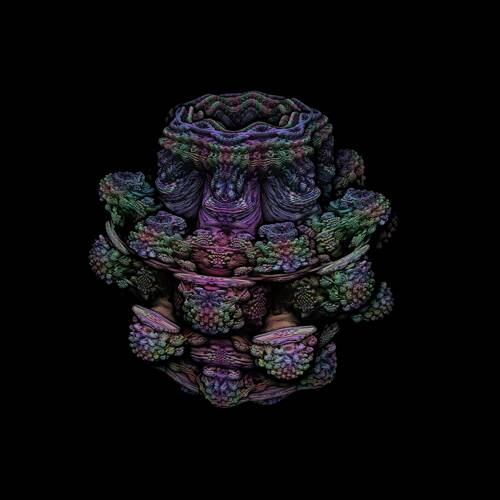
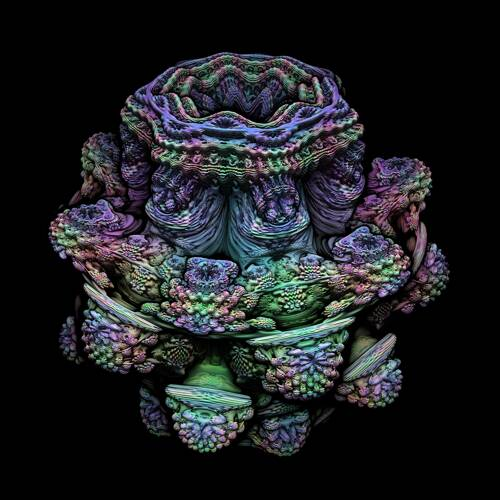
Tweaked the Mandelbulb applet cover and fixed a couple bugs

diff --git a/applets/the-mandelbulb/scripts/the-mandelbulb.min.js b/applets/the-mandelbulb/scripts/the-mandelbulb.min.js
@@ -1,1 +1,1 @@
-!function(){"use strict";let t=document.querySelector("#output-canvas").getContext("webgl"),e=document.querySelector("#output-canvas").offsetWidth,n=!1,o=!1,i=!1,a=0,r=0,c=!1,u=!1,s=!1,l=!1,m=!1,f=!1,_=0,d=1,p=3.3233,h=2.1272,g=500,v=32,w=[],y=[],b=[],S=[],M=[3.0191,.5918,1.9128],q=8,A=[0,0,0],L=0,z=0,P=0,E=0,I=0,x=2,k=[0,0,5],T=0;Y(),document.querySelector("#output-canvas").setAttribute("width",g),document.querySelector("#output-canvas").setAttribute("height",g),document.querySelector("#dim-input").addEventListener("input",function(){(g=parseInt(document.querySelector("#dim-input").value||500))<200&&(g=200);g>2e3&&(g=2e3);t.uniform1i(C.small_image_size_uniform,g),document.querySelector("#output-canvas").setAttribute("width",g),document.querySelector("#output-canvas").setAttribute("height",g),t.viewport(0,0,g,g),window.requestAnimationFrame(D)}),document.querySelector("#generate-high-res-image-button").addEventListener("click",function(){let e=g;g=parseInt(document.querySelector("#high-res-dim-input").value||2e3),document.querySelector("#output-canvas").setAttribute("width",g),document.querySelector("#output-canvas").setAttribute("height",g),t.viewport(0,0,g,g),D();let n=document.createElement("a");n.download=0===L?"the-mandelbulb.png":"a-juliabulb.png";n.href=document.querySelector("#output-canvas").toDataURL(),n.click(),n.remove(),g=e,document.querySelector("#output-canvas").setAttribute("width",g),document.querySelector("#output-canvas").setAttribute("height",g),t.viewport(0,0,g,g),D()}),document.querySelector("#power-input").addEventListener("input",function(){if(o)return;z=q,P=(parseFloat(document.querySelector("#power-input").value)||8)-z,z+P<1&&(P=0);E=L,I=0,B()}),document.querySelector("#switch-bulb-button").addEventListener("click",function(){if(o)return;document.querySelector("#switch-bulb-button").style.opacity=0,setTimeout(function(){document.querySelector("#switch-bulb-button").textContent=0===E?"Switch to Mandelbulb":"Switch to Juliabulb",document.querySelector("#switch-bulb-button").style.opacity=1},300),0===L&&(A=[...M]);I=1-2*(E=L),z=q,P=0,B()}),window.addEventListener("resize",X),setTimeout(X,500),document.querySelector("#output-canvas").addEventListener("mousedown",function(t){i=!0,a=t.clientX,r=t.clientY,n||o||(n=!0,window.requestAnimationFrame(D))}),document.querySelector("#output-canvas").addEventListener("mousemove",function(t){if(i){t.preventDefault();let n=t.clientX,o=t.clientY,i=n-a,c=o-r;(p+=i/e*Math.PI)>=2*Math.PI?p-=2*Math.PI:p<0&&(p+=2*Math.PI),(h-=c/e*Math.PI)>Math.PI-.01?h=Math.PI-.01:h<.01&&(h=.01),a=n,r=o,Y()}}),document.documentElement.addEventListener("mouseup",function(t){n=(i=!1)||c||u||s||l||m||f}),document.querySelector("#output-canvas").addEventListener("touchstart",function(t){i=!0,a=t.touches[0].clientX,r=t.touches[0].clientY,2===t.touches.length?(m=!0,f=!1):3===t.touches.length&&(f=!0,m=!1),n||o||(n=!0,window.requestAnimationFrame(D))}),document.querySelector("#output-canvas").addEventListener("touchmove",function(t){t.preventDefault();let n=t.touches[0].clientX,o=t.touches[0].clientY,i=n-a,c=o-r;Math.abs(i)>20||Math.abs(c)>20||((p+=i/e*Math.PI)>=2*Math.PI?p-=2*Math.PI:p<0&&(p+=2*Math.PI),(h-=c/e*Math.PI)>Math.PI-.01?h=Math.PI-.01:h<.01&&(h=.01),a=n,r=o,Y())}),document.querySelector("#output-canvas").addEventListener("touchend",function(t){2===t.touches.length?(m=!0,f=!1):3===t.touches.length?(f=!0,m=!1):(m=!1,f=!1,0===t.touches.length&&(i=!1)),n=i||c||u||s||l||m||f}),document.documentElement.addEventListener("keydown",function(t){87===t.keyCode?c=!0:83===t.keyCode&&(u=!0),68===t.keyCode?s=!0:65===t.keyCode&&(l=!0),n||o||(n=!0,window.requestAnimationFrame(D))}),document.documentElement.addEventListener("keyup",function(t){87===t.keyCode?c=!1:83===t.keyCode&&(u=!1),68===t.keyCode?s=!1:65===t.keyCode&&(l=!1),n=i||c||u||s||l||m||f});const F="\n\t\tattribute vec3 position;\n\t\tvarying vec2 uv;\n\n\t\tvoid main(void)\n\t\t{\n\t\t\tgl_Position = vec4(position, 1.0);\n\n\t\t\t//Interpolate quad coordinates in the fragment shader.\n\t\t\tuv = position.xy;\n\t\t}\n\t",U="\n\t\tprecision highp float;\n\t\t\n\t\tvarying vec2 uv;\n\t\t\n\t\tuniform vec3 camera_pos;\n\t\tuniform vec3 image_plane_center_pos;\n\t\tuniform vec3 forward_vec;\n\t\tuniform vec3 right_vec;\n\t\tuniform vec3 up_vec;\n\t\t\n\t\tuniform float focal_length;\n\t\t\n\t\tuniform vec3 light_pos;\n\t\tconst float light_brightness = 2.0;\n\t\t\n\t\tuniform int image_size;\n\t\tuniform int small_image_size;\n\t\t\n\t\t\n\t\t\n\t\tconst float clip_distance = 1000.0;\n\t\tconst int max_marches = 64;\n\t\tconst vec3 fog_color = vec3(0.0, 0.0, 0.0);\n\t\tconst float fog_scaling = .2;\n\t\tconst int num_iterations = 32;\n\t\t\n\t\tuniform float power;\n\t\tuniform vec3 c;\n\t\tuniform float julia_proportion;\n\t\t\n\t\tvec3 color;\n\t\t\n\t\t\n\t\t\n\t\tfloat distance_estimator(vec3 pos)\n\t\t{\n\t\t\tvec3 z = pos;\n\t\t\t\n\t\t\tfloat r = 0.0;\n\t\t\tfloat dr = 1.0;\n\t\t\t\n\t\t\tcolor = vec3(1.0, 1.0, 1.0);\n\t\t\tfloat color_scale = .5;\n\t\t\t\n\t\t\tfor (int iteration = 0; iteration < num_iterations; iteration++)\n\t\t\t{\n\t\t\t\tr = length(z);\n\t\t\t\t\n\t\t\t\tif (r > 16.0)\n\t\t\t\t{\n\t\t\t\t\tbreak;\n\t\t\t\t}\n\t\t\t\t\n\t\t\t\tfloat theta = acos(z.z / r);\n\t\t\t\t\n\t\t\t\tfloat phi = atan(z.y, z.x);\n\t\t\t\t\n\t\t\t\tdr = pow(r, power - 1.0) * power * dr + 1.0;\n\t\t\t\t\n\t\t\t\ttheta = theta * power;\n\t\t\t\t\n\t\t\t\tphi = phi * power;\n\t\t\t\t\n\t\t\t\tz = pow(r, power) * vec3(sin(theta)*cos(phi), sin(phi)*sin(theta), cos(theta));\n\t\t\t\t\n\t\t\t\tz += (1.0 - julia_proportion) * pos + julia_proportion * c;\n\t\t\t\t\n\t\t\t\tcolor = (1.0 - color_scale) * color + color_scale * abs(normalize(z));\n\t\t\t\t\n\t\t\t\tcolor_scale *= .5;\n\t\t\t}\n\t\t\t\n\t\t\tfloat max_color_component = max(max(color.x, color.y), color.z);\n\t\t\tcolor /= max_color_component;\n\t\t\t\n\t\t\treturn .5 * log(r) * r / dr;\n\t\t}\n\t\t\n\t\t\n\t\t\n\t\tvec3 get_surface_normal(vec3 pos)\n\t\t{\n\t\t\tfloat e = .00001;\n\t\t\t\n\t\t\tfloat base = distance_estimator(pos);\n\t\t\t\n\t\t\tfloat x_step = distance_estimator(pos + vec3(e, 0.0, 0.0));\n\t\t\tfloat y_step = distance_estimator(pos + vec3(0.0, e, 0.0));\n\t\t\tfloat z_step = distance_estimator(pos + vec3(0.0, 0.0, e));\n\t\t\t\n\t\t\treturn normalize(vec3(x_step - base, y_step - base, z_step - base));\n\t\t}\n\t\t\n\t\t\n\t\t\n\t\tvec3 compute_shading(vec3 pos, int iteration)\n\t\t{\n\t\t\tvec3 surface_normal = get_surface_normal(pos);\n\t\t\t\n\t\t\tvec3 light_direction = normalize(light_pos - pos);\n\t\t\t\n\t\t\tfloat light_intensity = light_brightness * max(dot(surface_normal, light_direction), .25 * dot(surface_normal, -light_direction));\n\t\t\t\n\t\t\t//The last factor adds ambient occlusion.\n\t\t\tcolor = color * light_intensity * max((1.0 - float(iteration) / float(max_marches)), 0.0);\n\t\t\t\n\t\t\t\n\t\t\t\n\t\t\t//Apply fog.\n\t\t\tfloat distance_from_camera = length(pos - camera_pos);\n\t\t\t\n\t\t\tfloat fog_amount = 1.0 - exp(-distance_from_camera * fog_scaling);\n\t\t\t\n\t\t\treturn (1.0 - fog_amount) * color + fog_amount * fog_color;\n\t\t}\n\t\t\n\t\t\n\t\t\n\t\tvoid main(void)\n\t\t{\n\t\t\tvec3 start_pos = image_plane_center_pos + right_vec * uv.x + up_vec * uv.y;\n\t\t\t\n\t\t\t//That factor of .9 is important -- without it, we're always stepping as far as possible, which results in artefacts and weirdness.\n\t\t\tvec3 ray_direction_vec = normalize(start_pos - camera_pos) * .9;\n\t\t\t\n\t\t\tvec3 final_color = fog_color;\n\t\t\t\n\t\t\tfloat epsilon = .00001;\n\t\t\t\n\t\t\tfloat t = 0.0;\n\t\t\t\n\t\t\tfloat last_distance = 1000.0;\n\t\t\t\n\t\t\t\n\t\t\t\n\t\t\tfor (int iteration = 0; iteration < max_marches; iteration++)\n\t\t\t{\n\t\t\t\tvec3 pos = start_pos + t * ray_direction_vec;\n\t\t\t\t\n\t\t\t\t//This prevents overstepping, and is honestly a pretty clever fix.\n\t\t\t\tfloat distance = min(distance_estimator(pos), last_distance);\n\t\t\t\tlast_distance = distance;\n\t\t\t\t\n\t\t\t\t//This lowers the detail far away, which makes everything run nice and fast.\n\t\t\t\tif (image_size == small_image_size && distance / 300.0 > epsilon)\n\t\t\t\t{\n\t\t\t\t\tepsilon = distance / 300.0;\n\t\t\t\t}\n\t\t\t\t\n\t\t\t\telse if (image_size != small_image_size && distance / 1000.0 > epsilon)\n\t\t\t\t{\n\t\t\t\t\tepsilon = distance / 1000.0;\n\t\t\t\t}\n\t\t\t\t\n\t\t\t\t\n\t\t\t\t\n\t\t\t\tif (distance < epsilon)\n\t\t\t\t{\n\t\t\t\t\tfinal_color = compute_shading(pos, iteration);\n\t\t\t\t\tbreak;\n\t\t\t\t}\n\t\t\t\t\n\t\t\t\telse if (t > clip_distance)\n\t\t\t\t{\n\t\t\t\t\tbreak;\n\t\t\t\t}\n\t\t\t\t\n\t\t\t\t\n\t\t\t\t\n\t\t\t\tt += distance;\n\t\t\t}\n\t\t\t\n\t\t\t\n\t\t\t\n\t\t\tgl_FragColor = vec4(final_color.xyz, 1.0);\n\t\t}\n\t";let C=null;function R(){let e=j(t,t.VERTEX_SHADER,F),n=j(t,t.FRAGMENT_SHADER,U);C=t.createProgram(),t.attachShader(C,e),t.attachShader(C,n),t.linkProgram(C),t.getProgramParameter(C,t.LINK_STATUS)||(console.log(`Couldn't link shader program: ${t.getShaderInfoLog(shader)}`),t.deleteProgram(C)),t.useProgram(C);let o=t.createBuffer();t.bindBuffer(t.ARRAY_BUFFER,o),t.bufferData(t.ARRAY_BUFFER,new Float32Array([-1,-1,0,-1,1,0,1,-1,0,1,1,0]),t.STATIC_DRAW),C.position_attribute=t.getAttribLocation(C,"position"),t.enableVertexAttribArray(C.position_attribute),t.vertexAttribPointer(C.position_attribute,3,t.FLOAT,!1,0,0),C.image_size_uniform=t.getUniformLocation(C,"image_size"),C.small_image_size_uniform=t.getUniformLocation(C,"small_image_size"),C.camera_pos_uniform=t.getUniformLocation(C,"camera_pos"),C.image_plane_center_pos_uniform=t.getUniformLocation(C,"image_plane_center_pos"),C.forward_vec_uniform=t.getUniformLocation(C,"forward_vec"),C.right_vec_uniform=t.getUniformLocation(C,"right_vec"),C.up_vec_uniform=t.getUniformLocation(C,"up_vec"),C.focal_length_uniform=t.getUniformLocation(C,"focal_length"),C.light_pos_uniform=t.getUniformLocation(C,"light_pos"),C.power_uniform=t.getUniformLocation(C,"power"),C.c_uniform=t.getUniformLocation(C,"c"),C.julia_proportion_uniform=t.getUniformLocation(C,"julia_proportion"),t.viewport(0,0,g,g),t.uniform1i(C.small_image_size_uniform,g),window.requestAnimationFrame(D)}function j(t,e,n){let o=t.createShader(e);return t.shaderSource(o,n),t.compileShader(o),t.getShaderParameter(o,t.COMPILE_STATUS)||(console.log(`Couldn't load shader: ${t.getProgramInfoLog(shaderProgram)}`),t.deleteShader(o)),o}function D(){t.uniform1i(C.image_size_uniform,g),t.uniform3fv(C.camera_pos_uniform,M),t.uniform3fv(C.image_plane_center_pos_uniform,w),t.uniform3fv(C.forward_vec_uniform,y),t.uniform3fv(C.right_vec_uniform,b),t.uniform3fv(C.up_vec_uniform,S),t.uniform1f(C.focal_length_uniform,x),t.uniform3fv(C.light_pos_uniform,k),t.uniform1f(C.power_uniform,q),t.uniform3fv(C.c_uniform,A),t.uniform1f(C.julia_proportion_uniform,L),t.drawArrays(t.TRIANGLE_STRIP,0,4),o?(!function(){let t=.5*Math.sin(Math.PI*T/120-Math.PI/2)+.5;q=z+P*t,L=E+I*t,121==++T&&(o=!1)}(),window.requestAnimationFrame(D)):n&&((c||u||s||l||m||f)&&((_=d/20)<25e-6&&(_=25e-6),_>.02&&(_=.02),c||m?(M[0]+=_*y[0],M[1]+=_*y[1],M[2]+=_*y[2]):(u||f)&&(M[0]-=_*y[0],M[1]-=_*y[1],M[2]-=_*y[2]),s?(M[0]+=_*b[0]/x,M[1]+=_*b[1]/x,M[2]+=_*b[2]/x):l&&(M[0]-=_*b[0]/x,M[1]-=_*b[1]/x,M[2]-=_*b[2]/x),Y()),window.requestAnimationFrame(D))}function Y(){var t,e;y=[Math.cos(p)*Math.sin(h),Math.sin(p)*Math.sin(h),Math.cos(h)],b=function(t){let e=Math.sqrt(t[0]*t[0]+t[1]*t[1]+t[2]*t[2]);return[t[0]/e,t[1]/e,t[2]/e]}([y[1],-y[0],0]),e=y,S=[(t=b)[1]*e[2]-t[2]*e[1],t[2]*e[0]-t[0]*e[2],t[0]*e[1]-t[1]*e[0]],d=function(t,e,n){let o=[t,e,n],i=0,a=1;for(let u=0;u<v&&!((i=Math.sqrt((c=o,(r=o)[0]*c[0]+r[1]*c[1]+r[2]*c[2])))>10);u++){let r=Math.acos(o[2]/i),c=Math.atan2(o[1],o[0]);a=Math.pow(i,q-1)*q*a+1,r*=q,c*=q;let u=Math.pow(i,q);o[0]=u*Math.sin(r)*Math.cos(c)+((1-L)*t+L*A[0]),o[1]=u*Math.sin(r)*Math.sin(c)+((1-L)*e+L*A[1]),o[2]=u*Math.cos(r)+((1-L)*n+L*A[2])}var r,c;return.5*Math.log(i)*i/a}(M[0],M[1],M[2]),x=d/2,b[0]*=x/2,b[1]*=x/2,S[0]*=x/2,S[1]*=x/2,S[2]*=x/2,w=[M[0]+x*y[0],M[1]+x*y[1],M[2]+x*y[2]]}function X(){e=document.querySelector("#output-canvas").offsetWidth}function B(){o=!0,T=0,window.requestAnimationFrame(D)}load_script("/scripts/gl-matrix.min.js").then(function(){setTimeout(R,500)})}();
+!function(){"use strict";let t=document.querySelector("#output-canvas").getContext("webgl"),e=document.querySelector("#output-canvas").offsetWidth,n=!1,o=!1,i=!1,r=0,a=0,c=!1,u=!1,s=!1,l=!1,m=!1,f=!1,_=0,d=1,p=4.6601,h=2.272,g=500,v=32,w=[],y=[],b=[],S=[],q=[.0828,2.17,1.8925],M=8,A=[0,0,0],L=0,z=0,P=0,E=0,I=0,x=2,k=[0,0,5],T=0;Y(),document.querySelector("#output-canvas").setAttribute("width",g),document.querySelector("#output-canvas").setAttribute("height",g),document.querySelector("#dim-input").addEventListener("input",function(){(g=parseInt(document.querySelector("#dim-input").value||500))<200&&(g=200);g>2e3&&(g=2e3);t.uniform1i(C.small_image_size_uniform,g),document.querySelector("#output-canvas").setAttribute("width",g),document.querySelector("#output-canvas").setAttribute("height",g),t.viewport(0,0,g,g),window.requestAnimationFrame(D)}),document.querySelector("#generate-high-res-image-button").addEventListener("click",function(){let e=g;g=parseInt(document.querySelector("#high-res-dim-input").value||2e3),document.querySelector("#output-canvas").setAttribute("width",g),document.querySelector("#output-canvas").setAttribute("height",g),t.viewport(0,0,g,g),D();let n=document.createElement("a");n.download=0===L?"the-mandelbulb.png":"a-juliabulb.png";n.href=document.querySelector("#output-canvas").toDataURL(),n.click(),n.remove(),g=e,document.querySelector("#output-canvas").setAttribute("width",g),document.querySelector("#output-canvas").setAttribute("height",g),t.viewport(0,0,g,g),D()}),document.querySelector("#power-input").addEventListener("input",function(){if(o||""===document.querySelector("#power-input").value)return;z=M,P=parseFloat(document.querySelector("#power-input").value)-z,z+P<1&&(P=0);E=L,I=0,B()}),document.querySelector("#switch-bulb-button").addEventListener("click",function(){if(o)return;document.querySelector("#switch-bulb-button").style.opacity=0,setTimeout(function(){document.querySelector("#switch-bulb-button").textContent=0===E?"Switch to Mandelbulb":"Switch to Juliabulb",document.querySelector("#switch-bulb-button").style.opacity=1},300),0===L&&(A=[...q]);I=1-2*(E=L),z=M,P=0,B()}),window.addEventListener("resize",X),setTimeout(X,500),document.querySelector("#output-canvas").addEventListener("mousedown",function(t){i=!0,r=t.clientX,a=t.clientY,n||o||(n=!0,window.requestAnimationFrame(D))}),document.querySelector("#output-canvas").addEventListener("mousemove",function(t){if(i){t.preventDefault();let n=t.clientX,o=t.clientY,i=n-r,c=o-a;(p+=i/e*Math.PI)>=2*Math.PI?p-=2*Math.PI:p<0&&(p+=2*Math.PI),(h-=c/e*Math.PI)>Math.PI-.01?h=Math.PI-.01:h<.01&&(h=.01),r=n,a=o,Y()}}),document.documentElement.addEventListener("mouseup",function(t){n=(i=!1)||c||u||s||l||m||f}),document.querySelector("#output-canvas").addEventListener("touchstart",function(t){i=!0,r=t.touches[0].clientX,a=t.touches[0].clientY,2===t.touches.length?(m=!0,f=!1):3===t.touches.length&&(f=!0,m=!1),n||o||(n=!0,window.requestAnimationFrame(D))}),document.querySelector("#output-canvas").addEventListener("touchmove",function(t){t.preventDefault();let n=t.touches[0].clientX,o=t.touches[0].clientY,i=n-r,c=o-a;Math.abs(i)>20||Math.abs(c)>20||((p+=i/e*Math.PI)>=2*Math.PI?p-=2*Math.PI:p<0&&(p+=2*Math.PI),(h-=c/e*Math.PI)>Math.PI-.01?h=Math.PI-.01:h<.01&&(h=.01),r=n,a=o,Y())}),document.querySelector("#output-canvas").addEventListener("touchend",function(t){2===t.touches.length?(m=!0,f=!1):3===t.touches.length?(f=!0,m=!1):(m=!1,f=!1,0===t.touches.length&&(i=!1)),n=i||c||u||s||l||m||f}),document.documentElement.addEventListener("keydown",function(t){87===t.keyCode?c=!0:83===t.keyCode&&(u=!0),68===t.keyCode?s=!0:65===t.keyCode&&(l=!0),n||o||(n=!0,window.requestAnimationFrame(D))}),document.documentElement.addEventListener("keyup",function(t){87===t.keyCode?c=!1:83===t.keyCode&&(u=!1),68===t.keyCode?s=!1:65===t.keyCode&&(l=!1),n=i||c||u||s||l||m||f});const F="\n\t\tattribute vec3 position;\n\t\tvarying vec2 uv;\n\n\t\tvoid main(void)\n\t\t{\n\t\t\tgl_Position = vec4(position, 1.0);\n\n\t\t\t//Interpolate quad coordinates in the fragment shader.\n\t\t\tuv = position.xy;\n\t\t}\n\t",U="\n\t\tprecision highp float;\n\t\t\n\t\tvarying vec2 uv;\n\t\t\n\t\tuniform vec3 camera_pos;\n\t\tuniform vec3 image_plane_center_pos;\n\t\tuniform vec3 forward_vec;\n\t\tuniform vec3 right_vec;\n\t\tuniform vec3 up_vec;\n\t\t\n\t\tuniform float focal_length;\n\t\t\n\t\tuniform vec3 light_pos;\n\t\tconst float light_brightness = 2.0;\n\t\t\n\t\tuniform int image_size;\n\t\tuniform int small_image_size;\n\t\t\n\t\t\n\t\t\n\t\tconst float clip_distance = 1000.0;\n\t\tconst int max_marches = 64;\n\t\tconst vec3 fog_color = vec3(0.0, 0.0, 0.0);\n\t\tconst float fog_scaling = .2;\n\t\tconst int num_iterations = 32;\n\t\t\n\t\tuniform float power;\n\t\tuniform vec3 c;\n\t\tuniform float julia_proportion;\n\t\t\n\t\tvec3 color;\n\t\t\n\t\t\n\t\t\n\t\tfloat distance_estimator(vec3 pos)\n\t\t{\n\t\t\tvec3 z = pos;\n\t\t\t\n\t\t\tfloat r = 0.0;\n\t\t\tfloat dr = 1.0;\n\t\t\t\n\t\t\tcolor = vec3(1.0, 1.0, 1.0);\n\t\t\tfloat color_scale = .5;\n\t\t\t\n\t\t\tfor (int iteration = 0; iteration < num_iterations; iteration++)\n\t\t\t{\n\t\t\t\tr = length(z);\n\t\t\t\t\n\t\t\t\tif (r > 16.0)\n\t\t\t\t{\n\t\t\t\t\tbreak;\n\t\t\t\t}\n\t\t\t\t\n\t\t\t\tfloat theta = acos(z.z / r);\n\t\t\t\t\n\t\t\t\tfloat phi = atan(z.y, z.x);\n\t\t\t\t\n\t\t\t\tdr = pow(r, power - 1.0) * power * dr + 1.0;\n\t\t\t\t\n\t\t\t\ttheta = theta * power;\n\t\t\t\t\n\t\t\t\tphi = phi * power;\n\t\t\t\t\n\t\t\t\tz = pow(r, power) * vec3(sin(theta)*cos(phi), sin(phi)*sin(theta), cos(theta));\n\t\t\t\t\n\t\t\t\tz += (1.0 - julia_proportion) * pos + julia_proportion * c;\n\t\t\t\t\n\t\t\t\tcolor = (1.0 - color_scale) * color + color_scale * abs(normalize(z));\n\t\t\t\t\n\t\t\t\tcolor_scale *= .5;\n\t\t\t}\n\t\t\t\n\t\t\tfloat max_color_component = max(max(color.x, color.y), color.z);\n\t\t\tcolor /= max_color_component;\n\t\t\t\n\t\t\treturn .5 * log(r) * r / dr;\n\t\t}\n\t\t\n\t\t\n\t\t\n\t\tvec3 get_surface_normal(vec3 pos)\n\t\t{\n\t\t\tfloat e = .00001;\n\t\t\t\n\t\t\tfloat base = distance_estimator(pos);\n\t\t\t\n\t\t\tfloat x_step = distance_estimator(pos + vec3(e, 0.0, 0.0));\n\t\t\tfloat y_step = distance_estimator(pos + vec3(0.0, e, 0.0));\n\t\t\tfloat z_step = distance_estimator(pos + vec3(0.0, 0.0, e));\n\t\t\t\n\t\t\treturn normalize(vec3(x_step - base, y_step - base, z_step - base));\n\t\t}\n\t\t\n\t\t\n\t\t\n\t\tvec3 compute_shading(vec3 pos, int iteration)\n\t\t{\n\t\t\tvec3 surface_normal = get_surface_normal(pos);\n\t\t\t\n\t\t\tvec3 light_direction = normalize(light_pos - pos);\n\t\t\t\n\t\t\tfloat light_intensity = light_brightness * max(dot(surface_normal, light_direction), .25 * dot(surface_normal, -light_direction));\n\t\t\t\n\t\t\t//The last factor adds ambient occlusion.\n\t\t\tcolor = color * light_intensity * max((1.0 - float(iteration) / float(max_marches)), 0.0);\n\t\t\t\n\t\t\t\n\t\t\t\n\t\t\t//Apply fog.\n\t\t\tfloat distance_from_camera = length(pos - camera_pos);\n\t\t\t\n\t\t\tfloat fog_amount = 1.0 - exp(-distance_from_camera * fog_scaling);\n\t\t\t\n\t\t\treturn (1.0 - fog_amount) * color + fog_amount * fog_color;\n\t\t}\n\t\t\n\t\t\n\t\t\n\t\tvoid main(void)\n\t\t{\n\t\t\tvec3 start_pos = image_plane_center_pos + right_vec * uv.x + up_vec * uv.y;\n\t\t\t\n\t\t\t//That factor of .9 is important -- without it, we're always stepping as far as possible, which results in artefacts and weirdness.\n\t\t\tvec3 ray_direction_vec = normalize(start_pos - camera_pos) * .9;\n\t\t\t\n\t\t\tvec3 final_color = fog_color;\n\t\t\t\n\t\t\tfloat epsilon = .00001;\n\t\t\t\n\t\t\tfloat t = 0.0;\n\t\t\t\n\t\t\tfloat last_distance = 1000.0;\n\t\t\t\n\t\t\t\n\t\t\t\n\t\t\tfor (int iteration = 0; iteration < max_marches; iteration++)\n\t\t\t{\n\t\t\t\tvec3 pos = start_pos + t * ray_direction_vec;\n\t\t\t\t\n\t\t\t\t//This prevents overstepping, and is honestly a pretty clever fix.\n\t\t\t\tfloat distance = min(distance_estimator(pos), last_distance);\n\t\t\t\tlast_distance = distance;\n\t\t\t\t\n\t\t\t\t//This lowers the detail far away, which makes everything run nice and fast.\n\t\t\t\tif (image_size == small_image_size && distance / 300.0 > epsilon)\n\t\t\t\t{\n\t\t\t\t\tepsilon = distance / 300.0;\n\t\t\t\t}\n\t\t\t\t\n\t\t\t\telse if (image_size != small_image_size && distance / 1000.0 > epsilon)\n\t\t\t\t{\n\t\t\t\t\tepsilon = distance / 1000.0;\n\t\t\t\t}\n\t\t\t\t\n\t\t\t\t\n\t\t\t\t\n\t\t\t\tif (distance < epsilon)\n\t\t\t\t{\n\t\t\t\t\tfinal_color = compute_shading(pos, iteration);\n\t\t\t\t\tbreak;\n\t\t\t\t}\n\t\t\t\t\n\t\t\t\telse if (t > clip_distance)\n\t\t\t\t{\n\t\t\t\t\tbreak;\n\t\t\t\t}\n\t\t\t\t\n\t\t\t\t\n\t\t\t\t\n\t\t\t\tt += distance;\n\t\t\t}\n\t\t\t\n\t\t\t\n\t\t\t\n\t\t\tgl_FragColor = vec4(final_color.xyz, 1.0);\n\t\t}\n\t";let C=null;function R(){let e=j(t,t.VERTEX_SHADER,F),n=j(t,t.FRAGMENT_SHADER,U);C=t.createProgram(),t.attachShader(C,e),t.attachShader(C,n),t.linkProgram(C),t.getProgramParameter(C,t.LINK_STATUS)||(console.log(`Couldn't link shader program: ${t.getShaderInfoLog(shader)}`),t.deleteProgram(C)),t.useProgram(C);let o=t.createBuffer();t.bindBuffer(t.ARRAY_BUFFER,o),t.bufferData(t.ARRAY_BUFFER,new Float32Array([-1,-1,0,-1,1,0,1,-1,0,1,1,0]),t.STATIC_DRAW),C.position_attribute=t.getAttribLocation(C,"position"),t.enableVertexAttribArray(C.position_attribute),t.vertexAttribPointer(C.position_attribute,3,t.FLOAT,!1,0,0),C.image_size_uniform=t.getUniformLocation(C,"image_size"),C.small_image_size_uniform=t.getUniformLocation(C,"small_image_size"),C.camera_pos_uniform=t.getUniformLocation(C,"camera_pos"),C.image_plane_center_pos_uniform=t.getUniformLocation(C,"image_plane_center_pos"),C.forward_vec_uniform=t.getUniformLocation(C,"forward_vec"),C.right_vec_uniform=t.getUniformLocation(C,"right_vec"),C.up_vec_uniform=t.getUniformLocation(C,"up_vec"),C.focal_length_uniform=t.getUniformLocation(C,"focal_length"),C.light_pos_uniform=t.getUniformLocation(C,"light_pos"),C.power_uniform=t.getUniformLocation(C,"power"),C.c_uniform=t.getUniformLocation(C,"c"),C.julia_proportion_uniform=t.getUniformLocation(C,"julia_proportion"),t.viewport(0,0,g,g),t.uniform1i(C.small_image_size_uniform,g),window.requestAnimationFrame(D)}function j(t,e,n){let o=t.createShader(e);return t.shaderSource(o,n),t.compileShader(o),t.getShaderParameter(o,t.COMPILE_STATUS)||(console.log(`Couldn't load shader: ${t.getProgramInfoLog(shaderProgram)}`),t.deleteShader(o)),o}function D(){t.uniform1i(C.image_size_uniform,g),t.uniform3fv(C.camera_pos_uniform,q),t.uniform3fv(C.image_plane_center_pos_uniform,w),t.uniform3fv(C.forward_vec_uniform,y),t.uniform3fv(C.right_vec_uniform,b),t.uniform3fv(C.up_vec_uniform,S),t.uniform1f(C.focal_length_uniform,x),t.uniform3fv(C.light_pos_uniform,k),t.uniform1f(C.power_uniform,M),t.uniform3fv(C.c_uniform,A),t.uniform1f(C.julia_proportion_uniform,L),t.drawArrays(t.TRIANGLE_STRIP,0,4),o?(!function(){let t=.5*Math.sin(Math.PI*T/120-Math.PI/2)+.5;M=z+P*t,L=E+I*t,121==++T&&(o=!1)}(),window.requestAnimationFrame(D)):n&&((c||u||s||l||m||f)&&((_=d/20)<25e-6&&(_=25e-6),_>.02&&(_=.02),c||m?(q[0]+=_*y[0],q[1]+=_*y[1],q[2]+=_*y[2]):(u||f)&&(q[0]-=_*y[0],q[1]-=_*y[1],q[2]-=_*y[2]),s?(q[0]+=_*b[0]/x,q[1]+=_*b[1]/x,q[2]+=_*b[2]/x):l&&(q[0]-=_*b[0]/x,q[1]-=_*b[1]/x,q[2]-=_*b[2]/x),Y()),window.requestAnimationFrame(D))}function Y(){var t,e;y=[Math.cos(p)*Math.sin(h),Math.sin(p)*Math.sin(h),Math.cos(h)],b=function(t){let e=Math.sqrt(t[0]*t[0]+t[1]*t[1]+t[2]*t[2]);return[t[0]/e,t[1]/e,t[2]/e]}([y[1],-y[0],0]),e=y,S=[(t=b)[1]*e[2]-t[2]*e[1],t[2]*e[0]-t[0]*e[2],t[0]*e[1]-t[1]*e[0]],d=function(t,e,n){let o=[t,e,n],i=0,r=1;for(let u=0;u<v&&!((i=Math.sqrt((c=o,(a=o)[0]*c[0]+a[1]*c[1]+a[2]*c[2])))>10);u++){let a=Math.acos(o[2]/i),c=Math.atan2(o[1],o[0]);r=Math.pow(i,M-1)*M*r+1,a*=M,c*=M;let u=Math.pow(i,M);o[0]=u*Math.sin(a)*Math.cos(c)+((1-L)*t+L*A[0]),o[1]=u*Math.sin(a)*Math.sin(c)+((1-L)*e+L*A[1]),o[2]=u*Math.cos(a)+((1-L)*n+L*A[2])}var a,c;return.5*Math.log(i)*i/r}(q[0],q[1],q[2]),x=d/2,b[0]*=x/2,b[1]*=x/2,S[0]*=x/2,S[1]*=x/2,S[2]*=x/2,w=[q[0]+x*y[0],q[1]+x*y[1],q[2]+x*y[2]]}function X(){e=document.querySelector("#output-canvas").offsetWidth}function B(){o=!0,T=0,window.requestAnimationFrame(D)}load_script("/scripts/gl-matrix.min.js").then(function(){setTimeout(R,500)})}();

diff --git a/applets/the-mandelbulb/scripts/the-mandelbulb.js b/applets/the-mandelbulb/scripts/the-mandelbulb.js
@@ -30,8 +30,8 @@
 	
 	
 	
-	let theta = 3.3233;
-	let phi = 2.1272;
+	let theta = 4.6601;
+	let phi = 2.272;
 	
 	
 	
@@ -44,7 +44,7 @@
 	let right_vec = [];
 	let up_vec = [];
 	
-	let camera_pos = [3.0191, .5918, 1.9128];
+	let camera_pos = [.0828, 2.17, 1.8925];
 	
 	let power = 8;
 	let c = [0, 0, 0];
@@ -904,7 +904,7 @@
 	
 	function change_power()
 	{
-		if (currently_animating_parameters)
+		if (currently_animating_parameters || document.querySelector("#power-input").value === "")
 		{
 			return;
 		}
@@ -912,7 +912,7 @@
 		
 		
 		power_old = power;
-		power_delta = (parseFloat(document.querySelector("#power-input").value) || 8) - power_old;
+		power_delta = parseFloat(document.querySelector("#power-input").value) - power_old;
 		
 		if (power_old + power_delta < 1)
 		{
